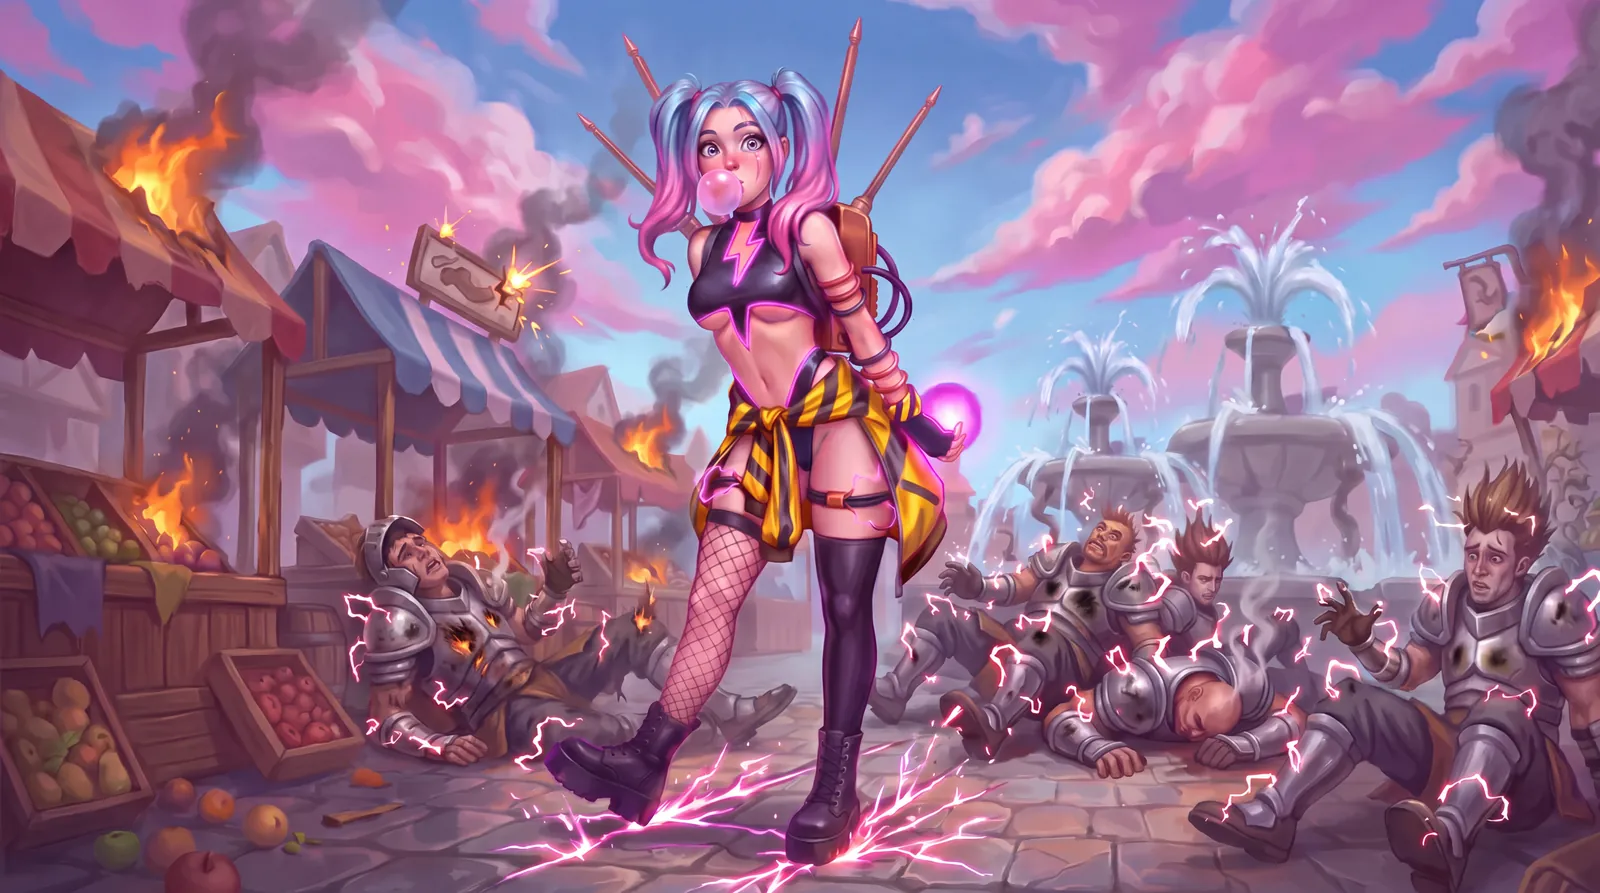
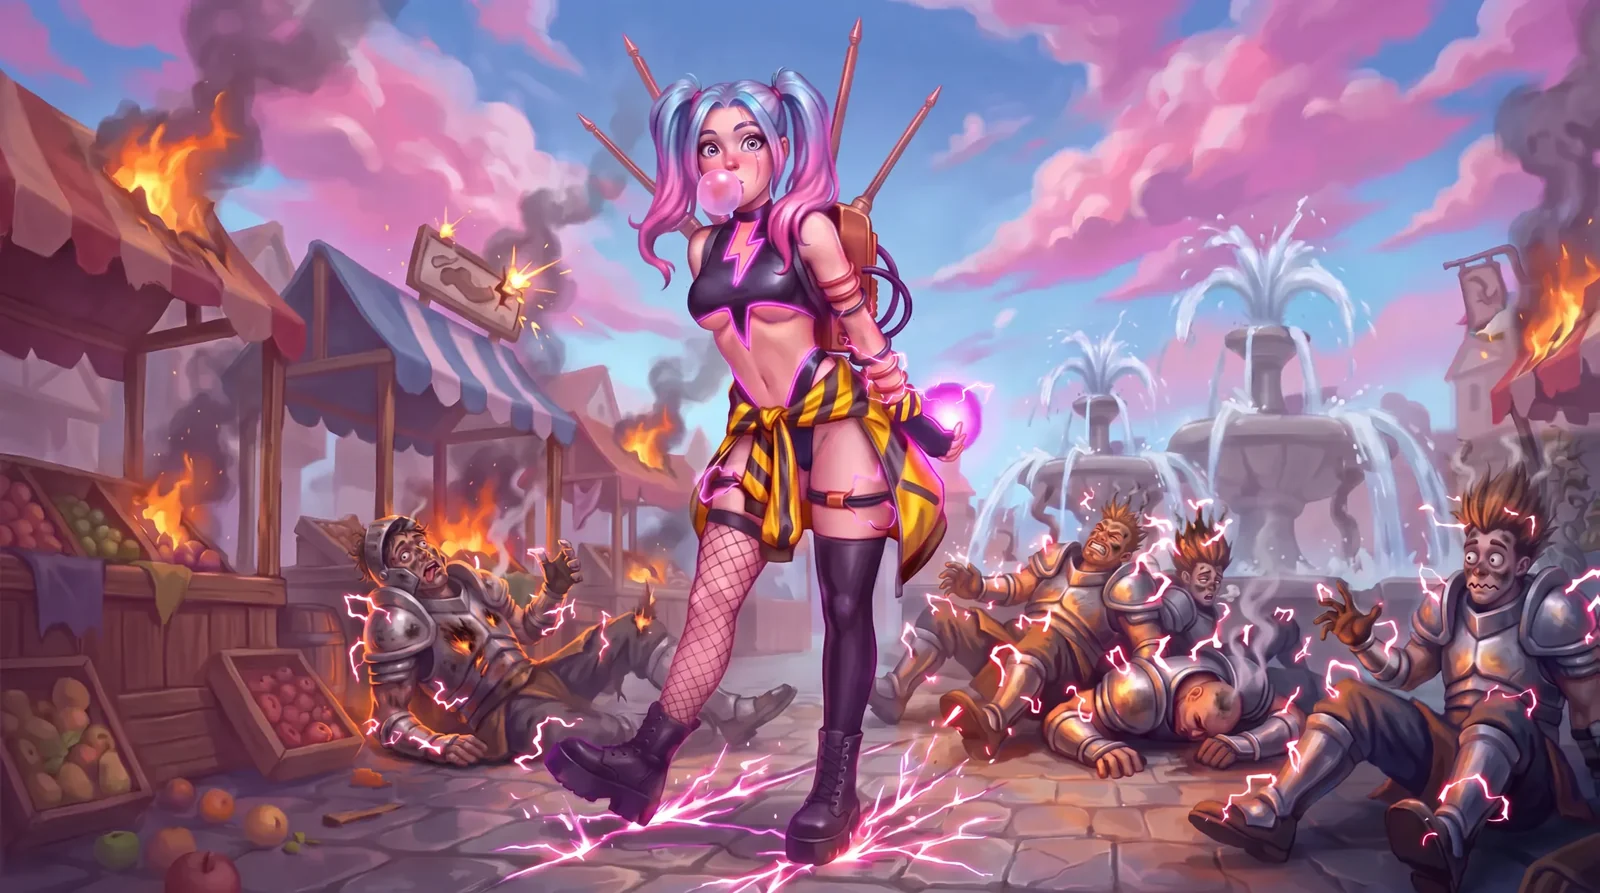
Sparkle splash: owner-picked painted A (sparkle-splash-1113: arm lit, funnier soot faces); ART_V 2026-11-13h
Claude-Session: https://claude.ai/code/session_01Fa986kEoxoUbsf7VZzVwQa

Changed region(s): [[0.5625, 0.4838, 1.0, 1.0], [0.1875, 0.5745, 0.375, 0.8768], [0.5312, 0.3931, 0.625, 0.4535]]

diff --git a/presskit.html b/presskit.html
@@ -101,19 +101,19 @@
         </div>
         <h2>Hunter art</h2>
         <div class="pk-grid">
-          <a href="assets/img/hunters/lisette-2400.webp?v=2026-11-13g" target="_blank"><img src="assets/img/hunters/lisette-960.webp?v=2026-11-13g" alt="Lace splash art" loading="lazy"><span class="pk-cap">Lace</span></a>
-          <a href="assets/img/hunters/breaker-2400.webp?v=2026-11-13g" target="_blank"><img src="assets/img/hunters/breaker-960.webp?v=2026-11-13g" alt="Albert splash art" loading="lazy"><span class="pk-cap">Albert</span></a>
-          <a href="assets/img/hunters/vex-2400.webp?v=2026-11-13g" target="_blank"><img src="assets/img/hunters/vex-960.webp?v=2026-11-13g" alt="Vex splash art" loading="lazy"><span class="pk-cap">Vex</span></a>
-          <a href="assets/img/hunters/kael-2400.webp?v=2026-11-13g" target="_blank"><img src="assets/img/hunters/kael-960.webp?v=2026-11-13g" alt="Kael splash art" loading="lazy"><span class="pk-cap">Kael</span></a>
-          <a href="assets/img/hunters/claire-2400.webp?v=2026-11-13g" target="_blank"><img src="assets/img/hunters/claire-960.webp?v=2026-11-13g" alt="Neve splash art" loading="lazy"><span class="pk-cap">Neve</span></a>
-          <a href="assets/img/hunters/cinder-2400.webp?v=2026-11-13g" target="_blank"><img src="assets/img/hunters/cinder-960.webp?v=2026-11-13g" alt="Cinder splash art" loading="lazy"><span class="pk-cap">Cinder</span></a>
-          <a href="assets/img/hunters/tarek-2400.webp?v=2026-11-13g" target="_blank"><img src="assets/img/hunters/tarek-960.webp?v=2026-11-13g" alt="Tenzo splash art" loading="lazy"><span class="pk-cap">Tenzo</span></a>
-          <a href="assets/img/hunters/ryzz-2400.webp?v=2026-11-13g" target="_blank"><img src="assets/img/hunters/ryzz-960.webp?v=2026-11-13g" alt="Sparkle splash art" loading="lazy"><span class="pk-cap">Sparkle</span></a>
-          <a href="assets/img/hunters/grimble-2400.webp?v=2026-11-13g" target="_blank"><img src="assets/img/hunters/grimble-960.webp?v=2026-11-13g" alt="Grimble splash art" loading="lazy"><span class="pk-cap">Grimble</span></a>
-          <a href="assets/img/hunters/pip-2400.webp?v=2026-11-13g" target="_blank"><img src="assets/img/hunters/pip-960.webp?v=2026-11-13g" alt="Meeko splash art" loading="lazy"><span class="pk-cap">Meeko</span></a>
-          <a href="assets/img/hunters/sable-2400.webp?v=2026-11-13g" target="_blank"><img src="assets/img/hunters/sable-960.webp?v=2026-11-13g" alt="Sable splash art" loading="lazy"><span class="pk-cap">Sable</span></a>
-          <a href="assets/img/hunters/gill-2400.webp?v=2026-11-13g" target="_blank"><img src="assets/img/hunters/gill-960.webp?v=2026-11-13g" alt="Gill splash art" loading="lazy"><span class="pk-cap">Gill</span></a>
-          <a href="assets/img/hunters/motley-2400.webp?v=2026-11-13g" target="_blank"><img src="assets/img/hunters/motley-960.webp?v=2026-11-13g" alt="Motley splash art" loading="lazy"><span class="pk-cap">Motley</span></a>
+          <a href="assets/img/hunters/lisette-2400.webp?v=2026-11-13h" target="_blank"><img src="assets/img/hunters/lisette-960.webp?v=2026-11-13h" alt="Lace splash art" loading="lazy"><span class="pk-cap">Lace</span></a>
+          <a href="assets/img/hunters/breaker-2400.webp?v=2026-11-13h" target="_blank"><img src="assets/img/hunters/breaker-960.webp?v=2026-11-13h" alt="Albert splash art" loading="lazy"><span class="pk-cap">Albert</span></a>
+          <a href="assets/img/hunters/vex-2400.webp?v=2026-11-13h" target="_blank"><img src="assets/img/hunters/vex-960.webp?v=2026-11-13h" alt="Vex splash art" loading="lazy"><span class="pk-cap">Vex</span></a>
+          <a href="assets/img/hunters/kael-2400.webp?v=2026-11-13h" target="_blank"><img src="assets/img/hunters/kael-960.webp?v=2026-11-13h" alt="Kael splash art" loading="lazy"><span class="pk-cap">Kael</span></a>
+          <a href="assets/img/hunters/claire-2400.webp?v=2026-11-13h" target="_blank"><img src="assets/img/hunters/claire-960.webp?v=2026-11-13h" alt="Neve splash art" loading="lazy"><span class="pk-cap">Neve</span></a>
+          <a href="assets/img/hunters/cinder-2400.webp?v=2026-11-13h" target="_blank"><img src="assets/img/hunters/cinder-960.webp?v=2026-11-13h" alt="Cinder splash art" loading="lazy"><span class="pk-cap">Cinder</span></a>
+          <a href="assets/img/hunters/tarek-2400.webp?v=2026-11-13h" target="_blank"><img src="assets/img/hunters/tarek-960.webp?v=2026-11-13h" alt="Tenzo splash art" loading="lazy"><span class="pk-cap">Tenzo</span></a>
+          <a href="assets/img/hunters/ryzz-2400.webp?v=2026-11-13h" target="_blank"><img src="assets/img/hunters/ryzz-960.webp?v=2026-11-13h" alt="Sparkle splash art" loading="lazy"><span class="pk-cap">Sparkle</span></a>
+          <a href="assets/img/hunters/grimble-2400.webp?v=2026-11-13h" target="_blank"><img src="assets/img/hunters/grimble-960.webp?v=2026-11-13h" alt="Grimble splash art" loading="lazy"><span class="pk-cap">Grimble</span></a>
+          <a href="assets/img/hunters/pip-2400.webp?v=2026-11-13h" target="_blank"><img src="assets/img/hunters/pip-960.webp?v=2026-11-13h" alt="Meeko splash art" loading="lazy"><span class="pk-cap">Meeko</span></a>
+          <a href="assets/img/hunters/sable-2400.webp?v=2026-11-13h" target="_blank"><img src="assets/img/hunters/sable-960.webp?v=2026-11-13h" alt="Sable splash art" loading="lazy"><span class="pk-cap">Sable</span></a>
+          <a href="assets/img/hunters/gill-2400.webp?v=2026-11-13h" target="_blank"><img src="assets/img/hunters/gill-960.webp?v=2026-11-13h" alt="Gill splash art" loading="lazy"><span class="pk-cap">Gill</span></a>
+          <a href="assets/img/hunters/motley-2400.webp?v=2026-11-13h" target="_blank"><img src="assets/img/hunters/motley-960.webp?v=2026-11-13h" alt="Motley splash art" loading="lazy"><span class="pk-cap">Motley</span></a>
         </div>
         <h2>Boki art</h2>
         <div class="pk-grid pk-grid-boki" id="pk-boki" hidden></div>

diff --git a/index.html b/index.html
@@ -219,7 +219,7 @@
       <button class="bk-arrow prev h-arrow" type="button" id="h-prev" aria-label="Previous Hunter"><svg viewBox="0 0 24 24" aria-hidden="true"><path d="M15 5l-7 7 7 7" fill="none" stroke="currentColor" stroke-width="2.6" stroke-linecap="round" stroke-linejoin="round"/></svg></button>
       <button class="bk-arrow next h-arrow" type="button" id="h-next" aria-label="Next Hunter"><svg viewBox="0 0 24 24" aria-hidden="true"><path d="M9 5l7 7-7 7" fill="none" stroke="currentColor" stroke-width="2.6" stroke-linecap="round" stroke-linejoin="round"/></svg></button>
       <div class="bk-count h-count"><b id="h-n">01</b> / <span>13</span></div>
-      <div class="shot"><img data-zoom id="h-art" src="assets/img/hunters/ryzz-1600.webp?v=2026-11-13g" srcset="assets/img/hunters/ryzz-960.webp?v=2026-11-13g 960w, assets/img/hunters/ryzz-1600.webp?v=2026-11-13g 1600w, assets/img/hunters/ryzz-2400.webp?v=2026-11-13g 2400w" sizes="(max-width: 1280px) 100vw, 1240px" alt="Sparkle, the Storm Chaser" loading="lazy"><button class="h-expand" type="button" id="h-expand" aria-label="View full art"><svg viewBox="0 0 24 24" fill="none" stroke="currentColor" stroke-width="2.2" stroke-linecap="round" stroke-linejoin="round" aria-hidden="true"><path d="M14 4h6v6M10 20H4v-6M20 4l-6.5 6.5M4 20l6.5-6.5"/></svg></button></div>
+      <div class="shot"><img data-zoom id="h-art" src="assets/img/hunters/ryzz-1600.webp?v=2026-11-13h" srcset="assets/img/hunters/ryzz-960.webp?v=2026-11-13h 960w, assets/img/hunters/ryzz-1600.webp?v=2026-11-13h 1600w, assets/img/hunters/ryzz-2400.webp?v=2026-11-13h 2400w" sizes="(max-width: 1280px) 100vw, 1240px" alt="Sparkle, the Storm Chaser" loading="lazy"><button class="h-expand" type="button" id="h-expand" aria-label="View full art"><svg viewBox="0 0 24 24" fill="none" stroke="currentColor" stroke-width="2.2" stroke-linecap="round" stroke-linejoin="round" aria-hidden="true"><path d="M14 4h6v6M10 20H4v-6M20 4l-6.5 6.5M4 20l6.5-6.5"/></svg></button></div>
       <div class="info" aria-live="polite">
         <div class="role" id="h-role">Skirmisher</div>
         <h3 id="h-name">Sparkle</h3>

diff --git a/assets/site.js b/assets/site.js
@@ -188,7 +188,7 @@ if (heroIn && !calm) {
 
 /* ---------- Hunters: pick a Mask ---------- */
 // [id, name, title, has an up-to-date in-game model, role (from the kit's role line in the game)]
-const ART_V = "2026-11-13g"; // bump when a Hunter splash changes
+const ART_V = "2026-11-13h"; // bump when a Hunter splash changes
 const HUNTERS = [
   ["ryzz", "Sparkle", "The Storm Chaser", true, "Skirmisher"],
   ["tarek", "Tenzo", "The Stone Seer", true, "Brawler"],
